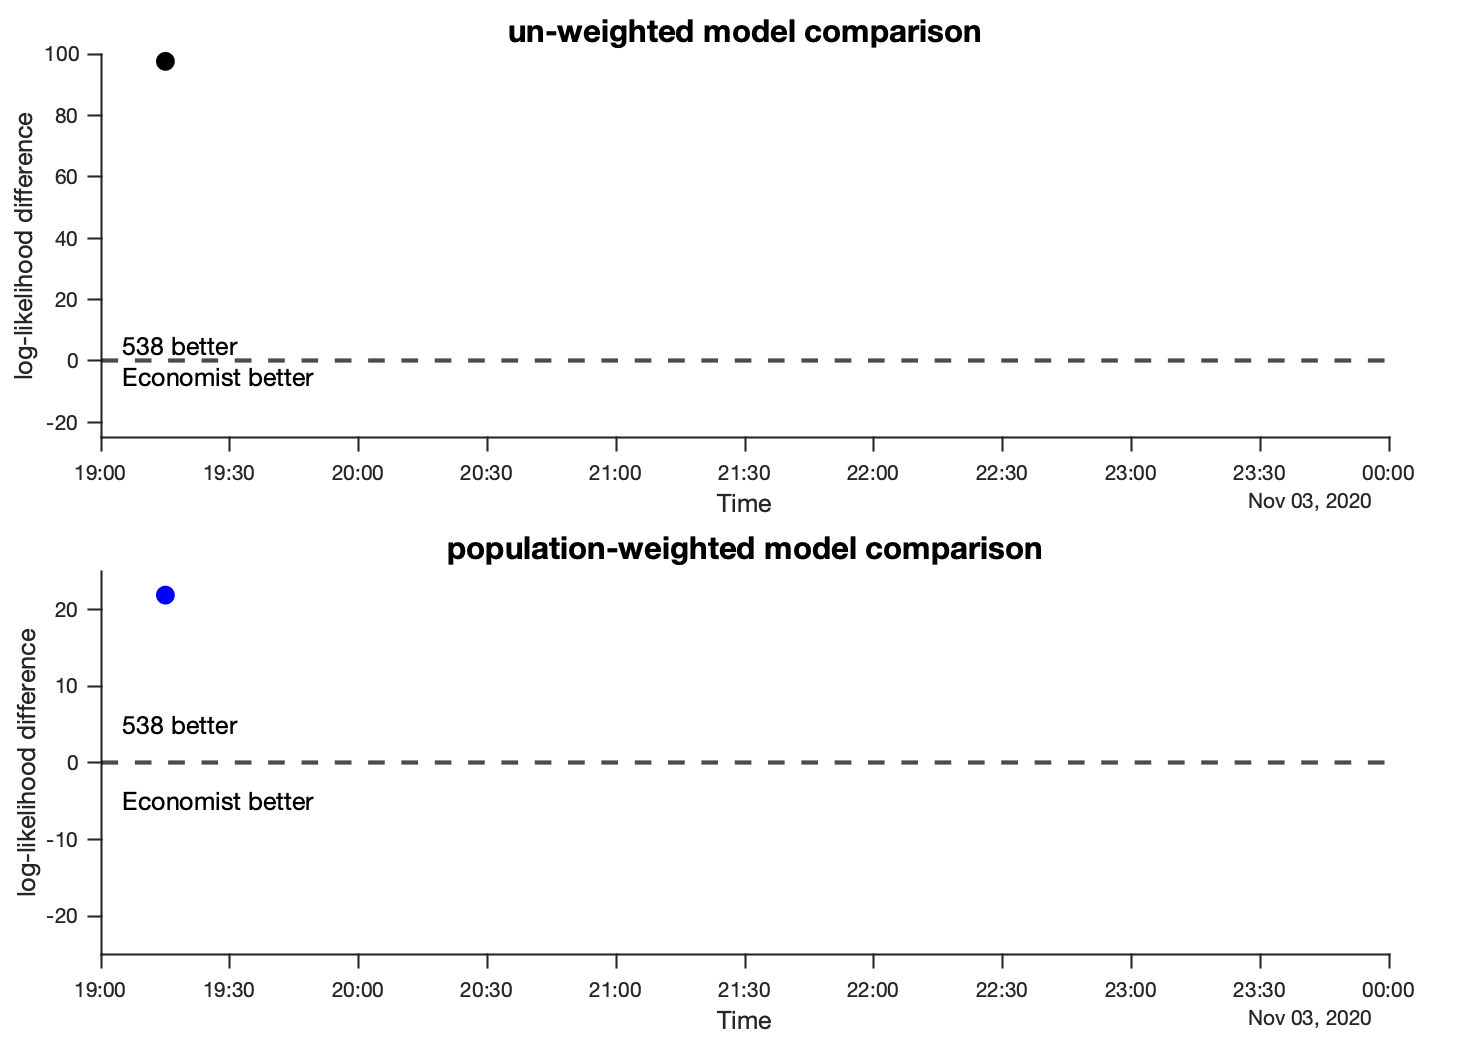
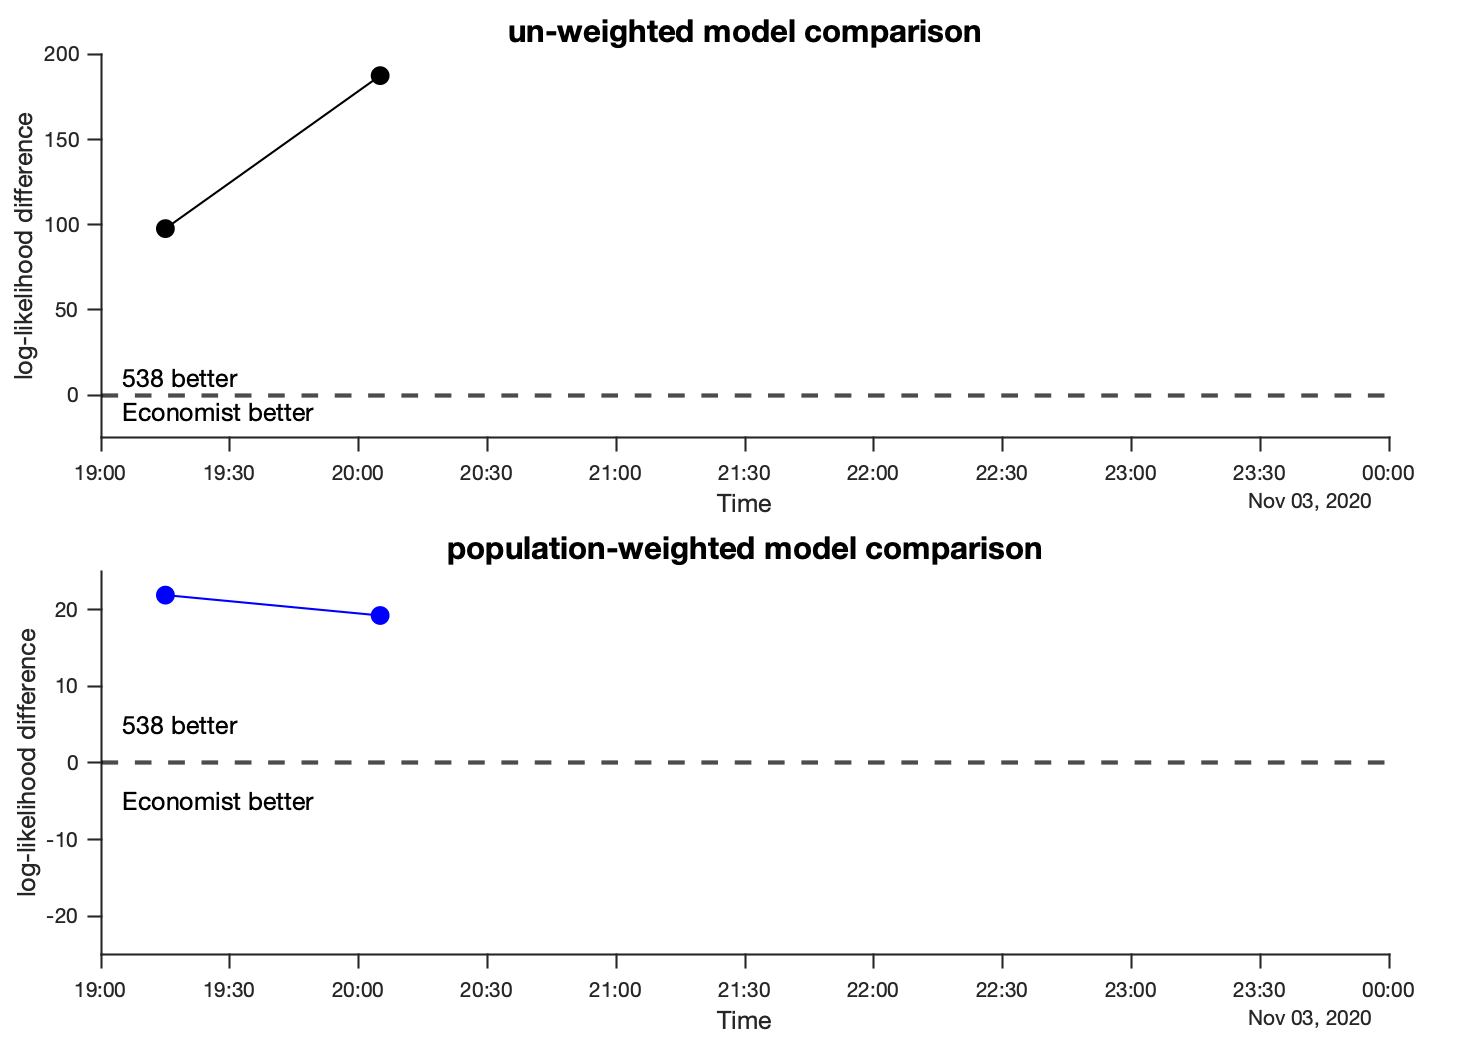
update

diff --git a/compare_models.m b/compare_models.m
@@ -79,8 +79,8 @@ nexttile;hold on;
 plot(curTime, tot_lik_538 - tot_lik_Econ, '-ok', 'LineWidth', 1, 'MarkerFaceColor', 'k', 'MarkerSize', 8);
 yline(0, '--k', 'LineWidth', 2);
 
-text(datetime([2020 11 3 19 05 00]), 5, '538 better', 'FontSize', 12)
-text(datetime([2020 11 3 19 05 00]), -5, 'Economist better', 'FontSize', 12)
+text(datetime([2020 11 3 19 05 00]), 10, '538 better', 'FontSize', 12)
+text(datetime([2020 11 3 19 05 00]), -10, 'Economist better', 'FontSize', 12)
 ylim([min(-25, f_ModelCompare.Children.Children.YLim(1)), max(25, f_ModelCompare.Children.Children.YLim(2))]);
 xlim([datetime([2020 11 3 19 00 00]), max(datetime([2020 11 4 00 00 00]), max(curTime))])
 
